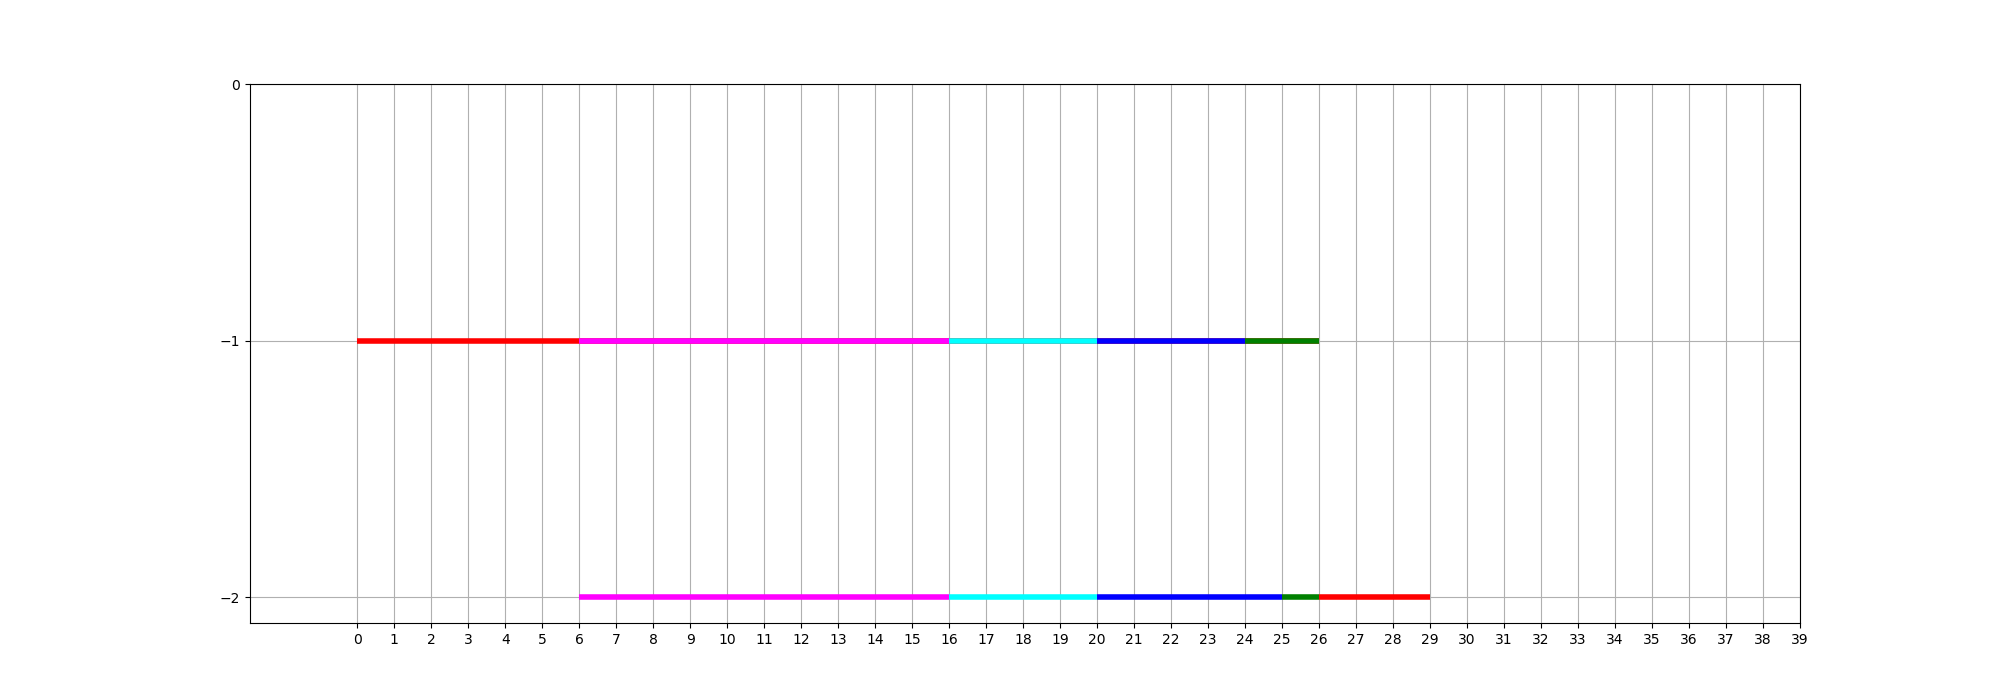
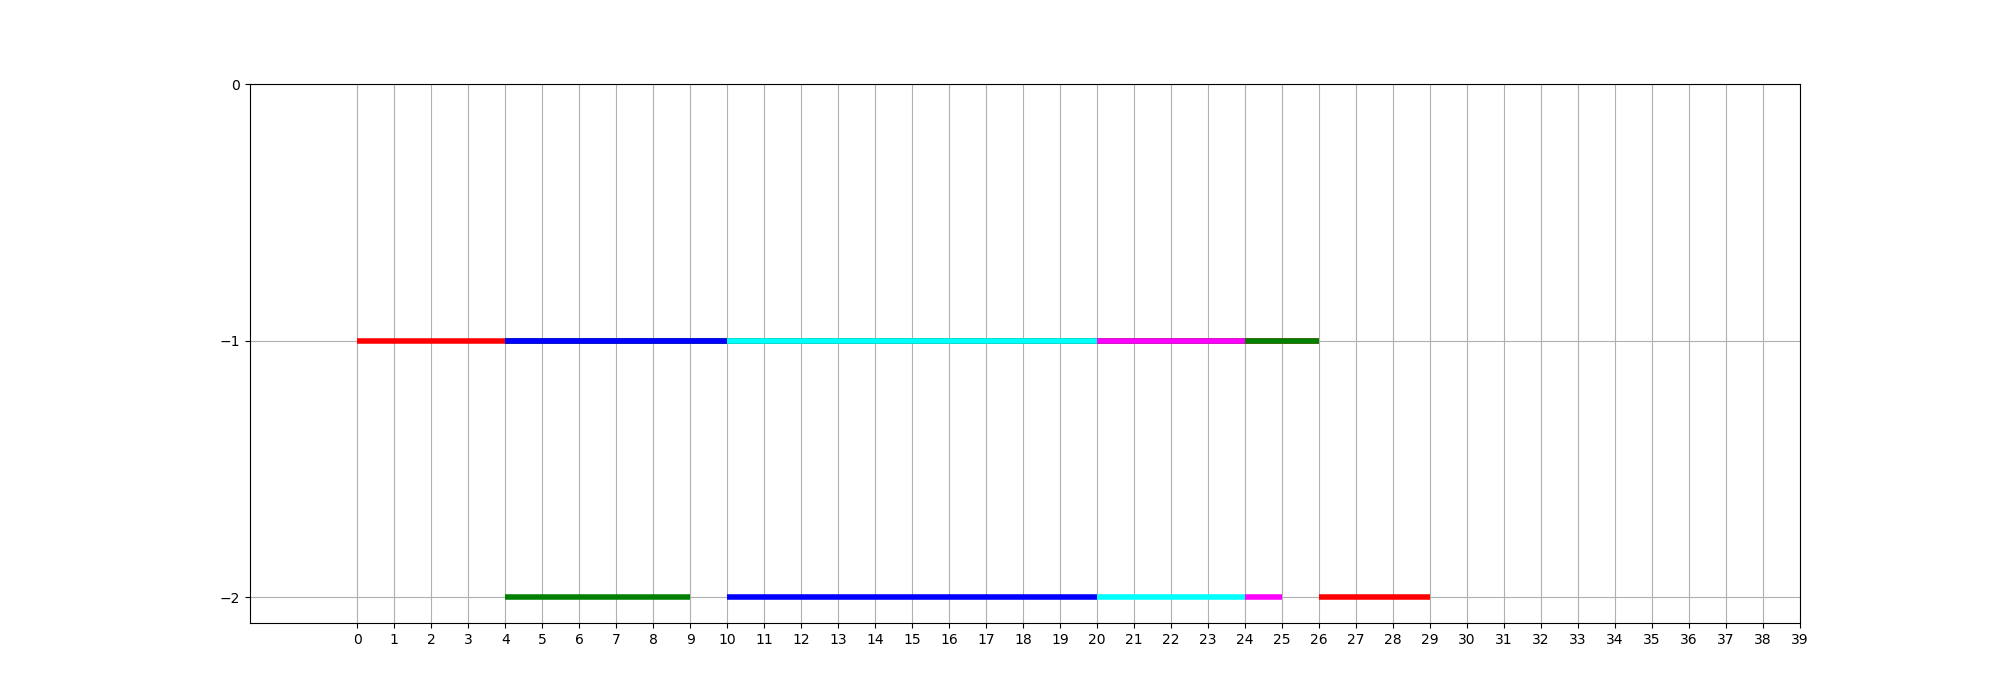
naprawiony NEH, liczy do 15 maszyn

Changed region(s): [[0.248, 0.84, 0.651, 0.87], [0.248, 0.48, 0.496, 0.51], [0.527, 0.48, 0.62, 0.51]]

diff --git a/lab2/lab02.py b/lab2/lab02.py
@@ -9,11 +9,8 @@ import matplotlib.pyplot as plt
 import numpy as np
 import time
 
-#l_nazwyPlikow=["dwie.txt", "trzy.txt"]
-l_nazwyPlikow=["trzy.txt"]
+l_nazwyPlikow=["dwie.txt", "trzy.txt", "neh.txt"]
 
-dwie_nazwaPliku = "dwie.txt"
-trzy_nazwaPliku = "trzy.txt"
 
 #######global #####################################
 # NOWE STRUKTURY
@@ -29,7 +26,7 @@ l_zadania=[]
 
 wczytane = []
 
-kolory = ["red", "green", "blue", "cyan", "magenta", "red", "green", "blue", "cyan", "magenta"]  #todo: poprawic
+kolory = ["red", "green", "blue", "cyan", "magenta", "red", "green", "blue", "cyan", "magenta", "red", "green", "blue", "cyan", "magenta"]  #todo: poprawic
 
 def wizualizacja(arg_liczbaZadan, arg_liczbaMaszyn, arg_kolejnosc, arg_nazwa_pliku):
     plt.figure(figsize=(20, 7))
@@ -111,9 +108,10 @@ def przegladKolejnosci(arg_liczbaZadan, arg_liczbaMaszyn, arg_kolejnosc):  # n z
     #utworzenie listy do czasu zakonczenia
     for i in range(0,arg_liczbaMaszyn):
         l_czasZakonczenia.append([])
-        l_czasZakonczenia[i]=[None]*arg_liczbaZadan
+        l_czasZakonczenia[i]=[None]*m_liczbaZadan
+        #l_czasZakonczenia[i] = [None] * arg_liczbaZadan
 
-    l_czasZakonczenia[0][arg_kolejnosc[0]] = l_czasTrwania[0][arg_kolejnosc[0]]  # zaczyna sie w t=0
+    l_czasZakonczenia[0][arg_kolejnosc[0]] = l_czasTrwania[0][arg_kolejnosc[0]]  # zaczyna sie w t=0 >>>>>>> TU JEST BLAD, dla mniejszej liczby zadan nie ma pelnej listy
     for i in range(1, arg_liczbaZadan):
         l_czasZakonczenia[0][arg_kolejnosc[i]] = l_czasZakonczenia[0][arg_kolejnosc[i - 1]] + \
                                                  l_czasTrwania[0][arg_kolejnosc[i]]
@@ -187,6 +185,10 @@ for nazwaPliku in l_nazwyPlikow:
     print("--Cmax = ", cmax)
     print("--------------")
     wizualizacja(m_liczbaZadan, m_liczbaMaszyn, posortowana, nazwaPliku.replace(".txt","")+".png")
+
+    #funkcja testujaca
+    cmax10=przegladKolejnosci(1, m_liczbaMaszyn, [2])
+   # print("UDALO SIE")
     #liczenie cmax wedlug algorytmu NEH
     print("Algorytm NEH")
     l1 = []
@@ -199,13 +201,14 @@ for nazwaPliku in l_nazwyPlikow:
             l1 = []
             l1 = l1 + l2
             l1.insert(j, i) #kolejnosc
-            print("nana=", l1)
-            d = przegladKolejnosci(m_liczbaZadan, m_liczbaMaszyn, posortowana)
+            #print("nana=", l1)
+            d = przegladKolejnosci(posortowana.index(i)+1, m_liczbaMaszyn, l1)
             if (m > d):
                 m = d
                 l3 = l1
-                print(m)
+                #print(m)
         l2 = l3
     print("--Najlepsza kolejnosc = ", l2)
     print("--Cmax = ", m)
     wizualizacja(m_liczbaZadan, m_liczbaMaszyn, l2, nazwaPliku.replace(".txt","")+"neh.png")
+
